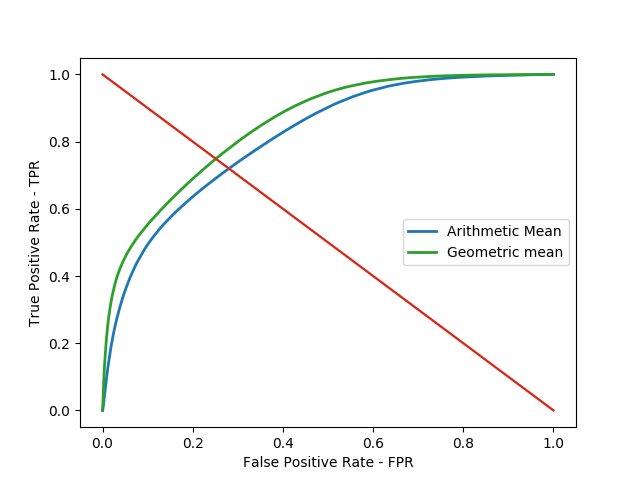
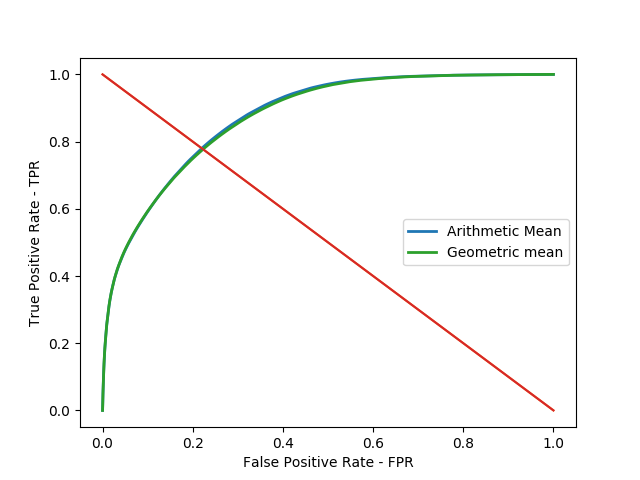
Fixed WI and CIVE eq

Changed region(s): [[0.1562, 0.1562, 0.7812, 0.8438]]

diff --git a/src/indexExtractor.py b/src/indexExtractor.py
@@ -161,8 +161,6 @@ def process(imgs):
 		img = filterImg(i[0])
 		gt = cv2.imread(i[1], cv2.IMREAD_GRAYSCALE)
 
-		imgNorm = cv2.normalize(img, 0.0, 1.0, cv2.NORM_MINMAX)
-
 		# Normalize the ground truth
 		cv2.normalize(gt, gt, 0.0, 1.0, cv2.NORM_MINMAX)
 		# Build a vector with all the ground truths
@@ -178,32 +176,50 @@ def process(imgs):
 		NGRDI = Utils.div0((G-R),(G+R))
 		cv2.normalize(NGRDI, NGRDI, 0.0, 1.0, cv2.NORM_MINMAX)
 		indices[0] = np.concatenate((indices[0], NGRDI.ravel()))
-
+		# cv2.normalize(NGRDI, NGRDI, 0.0, 255.0, cv2.NORM_MINMAX)
+		# NGRDI = np.uint8(NGRDI)
+		# cv2.imwrite("NGRDI.jpg", NGRDI)
 		# ExG
 		# ExG = 2*gNorm-rNorm-bNorm
 		ExG = 2*g-r-b
 		cv2.normalize(ExG, ExG, 0.0, 1.0, cv2.NORM_MINMAX)
 		indices[1] = np.concatenate((indices[1], ExG.ravel()))
+		# cv2.normalize(ExG, ExG, 0.0, 255.0, cv2.NORM_MINMAX)
+		# ExG = np.uint8(ExG)
+		# cv2.imwrite("ExG.jpg", ExG)
 
 		# CIVE
-		CIVE = 0.411*r - 0.881*g + 0.385*b + 18.78745
-		CIVE = 255 - cv2.normalize(CIVE, CIVE, 0.0, 255.0, cv2.NORM_MINMAX)
+		CIVE = 0.411*R - 0.881*G + 0.385*B + 18.78745
+		CIVE = 1 - cv2.normalize(CIVE, CIVE, 0.0, 1.0, cv2.NORM_MINMAX)
+		#CIVE = cv2.normalize(CIVE, CIVE, 0.0, 1.0, cv2.NORM_MINMAX)
 		indices[2] = np.concatenate((indices[2], CIVE.ravel()))
+		# cv2.normalize(CIVE, CIVE, 0.0, 255.0, cv2.NORM_MINMAX)
+		# CIVE = np.uint8(CIVE)
+		# cv2.imwrite("CIVE.jpg", CIVE)
 
 		# VEG
 		VEG = Utils.div0(g, 2+(r**0.667)*(b**(1-0.667)))
 		cv2.normalize(VEG, VEG, 0.0, 1.0, cv2.NORM_MINMAX)
 		indices[3] = np.concatenate((indices[3], VEG.ravel()))
+		# cv2.normalize(VEG, VEG, 0.0, 255.0, cv2.NORM_MINMAX)
+		# VEG = np.uint8(VEG)
+		# cv2.imwrite("VEG.jpg", VEG)
 
 		# ExGR
 		ExGR = g-(2.4*r)-b
 		cv2.normalize(ExGR, ExGR, 0.0, 1.0, cv2.NORM_MINMAX)
 		indices[4] = np.concatenate((indices[4], ExGR.ravel()))
+		# cv2.normalize(ExGR, ExGR, 0.0, 255.0, cv2.NORM_MINMAX)
+		# ExGR = np.uint8(ExGR)
+		# cv2.imwrite("ExGR.jpg", ExGR)
 
 		# WI
-		WI = Utils.div0((g-b),(r-g+255))
-		cv2.normalize(WI, WI, 0.0, 255.0, cv2.NORM_MINMAX)
+		WI = Utils.div0((g-b),((r-g)))
+		cv2.normalize(WI, WI, 0.0, 1.0, cv2.NORM_MINMAX)
 		indices[5] = np.concatenate((indices[5], WI.ravel()))
+		# cv2.normalize(WI, WI, 0.0, 255.0, cv2.NORM_MINMAX)
+		# WI = np.uint8(WI)
+		# cv2.imwrite("WI.jpg", WI)
 
 	plot_roc(gtAllImgs, indices, Utils.idxsLabels, "noFusion")
 	early_fusion(gtAllImgs, indices)
@@ -221,4 +237,5 @@ def main():
 	process(imgs)
 if __name__=='__main__':
 	main()
+
 

diff --git a/README.md b/README.md
@@ -17,21 +17,21 @@ No filter results
 |:----------:|:-------------:|:------:|:------:|:------:|:------:|
 |NGRDI|0.824|0.286|0.267|0.267|0.733|
 |ExG|0.805|0.220|0.280|0.280|0.720|
-|CIVE|0.808|55.530|0.277|0.277|0.723|
+|CIVE|0.845|0.579|0.237|0.237|0.763|
 |VEG|0.814|0.187|0.269|0.269|0.731|
 |ExGR|0.816|0.227|0.273|0.273|0.727|
-|WI|0.749|72.538|0.312|0.312|0.688|
+|WI|0.410|0.495|0.542|0.542|0.458|
 
 -------------
 |Method|AUC|EER|FAR|FRR|Accuracy|
 |:----------:|:-------------:|:------:|:------:|:------:|:------:|
-|Arithmetic Mean|0.781|21.495|0.294|0.294|0.706|
-|Geometric mean|0.822|0.008|0.267|0.267|0.733|
+|Arithmetic Mean|0.853|0.334|0.236|0.236|0.764|
+|Geometric mean|0.848|0.010|0.240|0.240|0.760|
 
 -------------
 |Method|Accuracy|
 |:----------:|:-------------:|
-|Majority|0.719|
+|Majority|0.731|
 
 
 Blur results
@@ -40,21 +40,21 @@ Blur results
 |:----------:|:-------------:|:------:|:------:|:------:|:------:|
 |NGRDI|0.890|0.389|0.199|0.199|0.801|
 |ExG|0.852|0.313|0.243|0.243|0.757|
-|CIVE|0.854|79.769|0.242|0.242|0.758|
+|CIVE|0.872|0.608|0.209|0.209|0.791|
 |VEG|0.851|0.287|0.246|0.246|0.754|
 |ExGR|0.878|0.328|0.214|0.214|0.786|
-|WI|0.805|88.725|0.274|0.274|0.726|
+|WI|0.404|0.492|0.568|0.568|0.432|
 
 -------------
 |Method|AUC|EER|FAR|FRR|Accuracy|
 |:----------:|:-------------:|:------:|:------:|:------:|:------:|
-|Arithmetic Mean|0.834|28.280|0.256|0.256|0.744|
-|Geometric mean|0.872|0.055|0.223|0.223|0.777|
+|Arithmetic Mean|0.866|0.413|0.223|0.223|0.777|
+|Geometric mean|0.843|0.104|0.228|0.228|0.772|
 
 -------------
 |Method|Accuracy|
 |:----------:|:-------------:|
-|Majority|0.759|
+|Majority|0.769|
 
 
 Gaussian filter results
@@ -63,21 +63,21 @@ Gaussian filter results
 |:----------:|:-------------:|:------:|:------:|:------:|:------:|
 |NGRDI|0.867|0.352|0.223|0.223|0.777|
 |ExG|0.834|0.281|0.257|0.257|0.743|
-|CIVE|0.836|71.510|0.256|0.256|0.744|
+|CIVE|0.867|0.599|0.216|0.216|0.784|
 |VEG|0.834|0.255|0.257|0.257|0.743|
 |ExGR|0.852|0.291|0.239|0.239|0.761|
-|WI|0.786|83.569|0.285|0.285|0.715|
+|WI|0.382|0.497|0.614|0.614|0.386|
 
 -------------
 |Method|AUC|EER|FAR|FRR|Accuracy|
 |:----------:|:-------------:|:------:|:------:|:------:|:------:|
-|Arithmetic Mean|0.815|26.039|0.268|0.268|0.732|
-|Geometric mean|0.852|0.029|0.242|0.242|0.758|
+|Arithmetic Mean|0.875|0.383|0.217|0.217|0.783|
+|Geometric mean|0.872|0.046|0.219|0.219|0.781|
 
 -------------
 |Method|Accuracy|
 |:----------:|:-------------:|
-|Majority|0.744|
+|Majority|0.754|
 
 
 Mean filter results
@@ -86,21 +86,21 @@ Mean filter results
 |:----------:|:-------------:|:------:|:------:|:------:|:------:|
 |NGRDI|0.876|0.390|0.216|0.216|0.784|
 |ExG|0.830|0.301|0.270|0.270|0.730|
-|CIVE|0.832|76.499|0.268|0.268|0.732|
+|CIVE|0.884|0.606|0.202|0.202|0.798|
 |VEG|0.818|0.265|0.283|0.283|0.717|
 |ExGR|0.852|0.324|0.246|0.246|0.754|
-|WI|0.781|86.576|0.297|0.297|0.703|
+|WI|0.406|0.495|0.563|0.563|0.437|
 
 -------------
 |Method|AUC|EER|FAR|FRR|Accuracy|
 |:----------:|:-------------:|:------:|:------:|:------:|:------:|
-|Arithmetic Mean|0.811|27.381|0.280|0.280|0.720|
-|Geometric mean|0.850|0.046|0.251|0.251|0.749|
+|Arithmetic Mean|0.876|0.401|0.220|0.220|0.780|
+|Geometric mean|0.873|0.073|0.223|0.223|0.777|
 
 -------------
 |Method|Accuracy|
 |:----------:|:-------------:|
-|Majority|0.729|
+|Majority|0.749|
 
 Bilateral filter results
 -------------
@@ -108,21 +108,21 @@ Bilateral filter results
 |:----------:|:-------------:|:------:|:------:|:------:|:------:|
 |NGRDI|0.829|0.290|0.264|0.264|0.736|
 |ExG|0.809|0.227|0.278|0.278|0.722|
-|CIVE|0.811|57.366|0.276|0.276|0.724|
+|CIVE|0.860|0.591|0.225|0.225|0.775|
 |VEG|0.808|0.197|0.278|0.278|0.722|
 |ExGR|0.817|0.231|0.274|0.274|0.726|
-|WI|0.753|73.865|0.310|0.310|0.690|
+|WI|0.397|0.494|0.599|0.599|0.401|
 
 -------------
 |Method|AUC|EER|FAR|FRR|Accuracy|
 |:----------:|:-------------:|:------:|:------:|:------:|:------:|
-|Arithmetic Mean|0.785|22.020|0.292|0.292|0.708|
-|Geometric mean|0.822|0.009|0.269|0.269|0.731|
+|Arithmetic Mean|0.856|0.341|0.234|0.234|0.766|
+|Geometric mean|0.851|0.013|0.239|0.239|0.761|
 
 -------------
 |Method|Accuracy|
 |:----------:|:-------------:|
-|Majority|0.721|
+|Majority|0.718|
 
 
 
@@ -183,21 +183,21 @@ No filter results
 |:----------:|:-------------:|:------:|:------:|:------:|:------:|
 |NGRDI|0.790|0.428|0.290|0.290|0.710|
 |ExG|0.801|0.311|0.268|0.268|0.732|
-|CIVE|0.800|79.401|0.268|0.268|0.732|
+|CIVE|0.838|0.559|0.236|0.236|0.764|
 |VEG|0.783|0.274|0.289|0.289|0.711|
 |ExGR|0.777|0.374|0.302|0.302|0.698|
-|WI|0.788|81.684|0.277|0.277|0.723|
+|WI|0.405|0.501|0.599|0.599|0.401|
 
 -------------
 |Method|AUC|EER|FAR|FRR|Accuracy|
 |:----------:|:-------------:|:------:|:------:|:------:|:------:|
-|Arithmetic Mean|0.803|26.966|0.269|0.269|0.731|
-|Geometric mean|0.795|0.071|0.277|0.277|0.723|
+|Arithmetic Mean|0.819|0.406|0.260|0.260|0.740|
+|Geometric mean|0.818|0.084|0.261|0.261|0.739|
 
 -------------
 |Method|Accuracy|
 |:----------:|:-------------:|
-|Majority|0.735|
+|Majority|0.741|
 
 Blur results
 -------------
@@ -205,22 +205,21 @@ Blur results
 |:----------:|:-------------:|:------:|:------:|:------:|:------:|
 |NGRDI|0.865|0.509|0.209|0.209|0.791|
 |ExG|0.861|0.388|0.215|0.215|0.785|
-|CIVE|0.863|99.463|0.214|0.214|0.786|
+|CIVE|0.853|0.573|0.220|0.220|0.780|
 |VEG|0.853|0.367|0.225|0.225|0.775|
 |ExGR|0.860|0.462|0.212|0.212|0.788|
-|WI|0.808|97.586|0.258|0.258|0.742|
+|WI|0.359|0.498|0.648|0.648|0.352|
 
 -------------
 |Method|AUC|EER|FAR|FRR|Accuracy|
 |:----------:|:-------------:|:------:|:------:|:------:|:------:|
-|Arithmetic Mean|0.845|33.077|0.230|0.230|0.770|
-|Geometric mean|0.873|0.251|0.201|0.201|0.799|
+|Arithmetic Mean|0.879|0.469|0.193|0.193|0.807|
+|Geometric mean|0.879|0.320|0.194|0.194|0.806|
 
 -------------
 |Method|Accuracy|
 |:----------:|:-------------:|
-|Majority|0.785|
-
+|Majority|0.807|
 
 
 Gaussian filter results
@@ -229,21 +228,21 @@ Gaussian filter results
 |:----------:|:-------------:|:------:|:------:|:------:|:------:|
 |NGRDI|0.849|0.480|0.232|0.232|0.768|
 |ExG|0.849|0.361|0.230|0.230|0.770|
-|CIVE|0.851|92.512|0.228|0.228|0.772|
+|CIVE|0.848|0.573|0.225|0.225|0.775|
 |VEG|0.840|0.338|0.238|0.238|0.762|
 |ExGR|0.840|0.432|0.240|0.240|0.760|
-|WI|0.809|92.038|0.257|0.257|0.743|
+|WI|0.375|0.504|0.637|0.637|0.363|
 
 -------------
 |Method|AUC|EER|FAR|FRR|Accuracy|
 |:----------:|:-------------:|:------:|:------:|:------:|:------:|
-|Arithmetic Mean|0.840|31.053|0.236|0.236|0.764|
-|Geometric mean|0.856|0.166|0.226|0.226|0.774|
+|Arithmetic Mean|0.868|0.449|0.209|0.209|0.791|
+|Geometric mean|0.868|0.221|0.209|0.209|0.791|
 
 -------------
 |Method|Accuracy|
 |:----------:|:-------------:|
-|Majority|0.770|
+|Majority|0.788|
 
 
 
@@ -253,21 +252,21 @@ Mean filter results
 |:----------:|:-------------:|:------:|:------:|:------:|:------:|
 |NGRDI|0.859|0.502|0.215|0.215|0.785|
 |ExG|0.852|0.391|0.224|0.224|0.776|
-|CIVE|0.853|100.039|0.223|0.223|0.777|
+|CIVE|0.851|0.584|0.223|0.223|0.777|
 |VEG|0.838|0.362|0.238|0.238|0.762|
 |ExGR|0.845|0.454|0.226|0.226|0.774|
-|WI|0.812|98.257|0.254|0.254|0.746|
+|WI|0.396|0.502|0.653|0.654|0.346|
 
 -------------
 |Method|AUC|EER|FAR|FRR|Accuracy|
 |:----------:|:-------------:|:------:|:------:|:------:|:------:|
-|Arithmetic Mean|0.842|33.382|0.233|0.233|0.767|
-|Geometric mean|0.861|0.234|0.212|0.212|0.788|
+|Arithmetic Mean|0.871|0.467|0.200|0.200|0.800|
+|Geometric mean|0.872|0.309|0.201|0.201|0.799|
 
 -------------
 |Method|Accuracy|
 |:----------:|:-------------:|
-|Majority|0.777|
+|Majority|0.795|
 
 
 
@@ -277,21 +276,21 @@ Bilateral filter results
 |:----------:|:-------------:|:------:|:------:|:------:|:------:|
 |NGRDI|0.806|0.437|0.280|0.280|0.720|
 |ExG|0.813|0.322|0.262|0.262|0.738|
-|CIVE|0.813|82.402|0.262|0.262|0.738|
+|CIVE|0.843|0.567|0.230|0.230|0.770|
 |VEG|0.796|0.288|0.282|0.282|0.718|
 |ExGR|0.793|0.380|0.293|0.293|0.707|
-|WI|0.792|83.897|0.277|0.277|0.723|
+|WI|0.381|0.499|0.595|0.595|0.405|
 
 -------------
 |Method|AUC|EER|FAR|FRR|Accuracy|
 |:----------:|:-------------:|:------:|:------:|:------:|:------:|
-|Arithmetic Mean|0.813|27.864|0.265|0.265|0.735|
-|Geometric mean|0.809|0.086|0.270|0.270|0.730|
+|Arithmetic Mean|0.831|0.414|0.253|0.253|0.747|
+|Geometric mean|0.830|0.103|0.253|0.253|0.747|
 
 -------------
 |Method|Accuracy|
 |:----------:|:-------------:|
-|Majority|0.740|
+|Majority|0.752|
 
 ------------------
 
